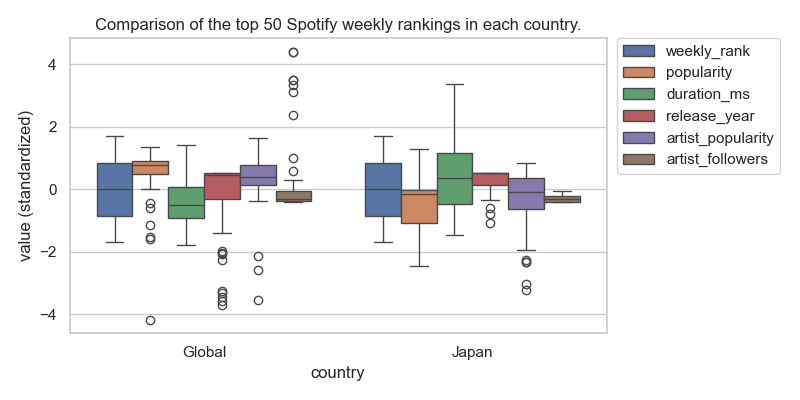
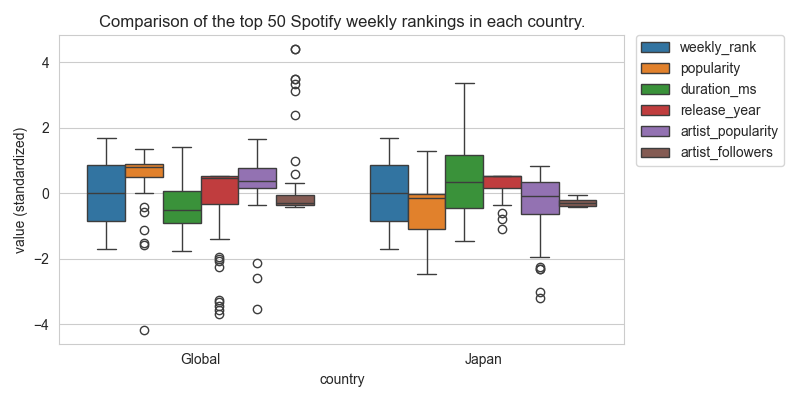
code 一通り完成、あとは code を仕上げるだけ

Changed region(s): [[0.0, 0.03, 1.0, 0.93], [0.375, 0.9, 0.4688, 0.96], [0.5625, 0.87, 0.625, 0.93]]

diff --git a/prog_spe2/report1/analysis.py b/prog_spe2/report1/analysis.py
@@ -21,7 +21,7 @@ df_japan = df[df["country"] == "Japan"].copy()
 df_global = df[df["country"] == "Global"].copy()
 df_both = pd.concat([df_japan, df_global], ignore_index=True)
 
-# Japan と Global の散布図を作成 
+# Japan と Global の散布図作成、相関係数算出
 def save_scatter_release_vs_duration_both(df_all, df_japan, df_global, save_dir):
     x_col = "release_year"
     y_col = "duration_ms"
@@ -33,35 +33,25 @@ def save_scatter_release_vs_duration_both(df_all, df_japan, df_global, save_dir)
         "Global": "deepskyblue",
     }
 
-    # 散布図（縦軸は秒に変換して描画）
+    # 相関係数
+    r_japan, _ = pearsonr(df_japan[x_col], df_japan[y_col])
+    r_global, _ = pearsonr(df_global[x_col], df_global[y_col])
+    r_both, _ = pearsonr(df_all[x_col], df_all[y_col])
+
+    # 散布図    
     for c in ["Global", "Japan"]:
-        sub_c = df_all[df_all["country"] == c].dropna(subset=[x_col, y_col])
-        if len(sub_c) < 2:
-            continue
-        x = sub_c[x_col].values
-        y_s = sub_c[y_col].values / 1000.0  # ms → s
-        plt.scatter(x, y_s, alpha=0.7, label=c, color=color_map[c])
+        sub = df_all[df_all["country"] == c]
+        x = sub[x_col].values
+        y = sub[y_col].values / 1000.0
+        plt.scatter(x, y, label=c, color=color_map[c])
 
-    # 相関係数はターミナル出力のみ
-    def safe_corr(df_sub):
-        sub = df_sub.dropna(subset=[x_col, y_col])
-        if len(sub) < 2:
-            return np.nan, np.nan
-        return pearsonr(sub[x_col], sub[y_col])
-
-    r_japan, _ = safe_corr(df_japan)
-    r_global, _ = safe_corr(df_global)
-    r_both, _ = safe_corr(df_all)
-
-    print("\n======================================")
-    print("[BOTH] duration_ms vs release_year")
-    print(f"  r(Japan)  = {r_japan:.4f}")
-    print(f"  r(Global) = {r_global:.4f}")
-    print(f"  r(Both)   = {r_both:.4f}")
-    print("======================================")
+    print("=== 曲の長さとリリース年の相関係数 ===")
+    print(f"  r(Japan)  =  {r_japan:.4f}")
+    print(f"  r(Global) =  {r_global:.4f}")
+    print(f"  r(Japan + Global)  =  {r_both:.4f}")
 
     plt.xlabel("release_year")
-    plt.ylabel("duration [s]")  # 単位を秒で表示
+    plt.ylabel("duration [s]")
     plt.title("duration [s] vs release_year (Japan & Global)")
     plt.grid(True)
     plt.legend(loc="upper left")
@@ -71,15 +61,10 @@ def save_scatter_release_vs_duration_both(df_all, df_japan, df_global, save_dir)
     plt.savefig(filepath)
     plt.close()
 
-    print(f"Saved scatter (Both): {filepath}")
+    # print(f"Saved scatter (Both): {filepath}")
 
 
-# =========================================================
-# 1-2. 散布図（Japan only）：release_year vs duration（秒）
-#      ＋ 赤色の線形近似直線
-#      相関係数はターミナルのみ
-#      式 y = ax + b を左下に表示
-# =========================================================
+# Japan の散布図(線形近似)
 def save_scatter_release_vs_duration_japan(df_japan, save_dir):
     x_col = "release_year"
     y_col = "duration_ms"
@@ -87,44 +72,31 @@ def save_scatter_release_vs_duration_japan(df_japan, save_dir):
     sub = df_japan.dropna(subset=[x_col, y_col])
     x = sub[x_col].values
     y_ms = sub[y_col].values
-    y_s = y_ms / 1000.0  # プロット用に秒に変換
+    y_s = y_ms / 1000.0
 
-    # 回帰直線は ms 単位で計算
     result_ms = linregress(x, y_ms)
-    slope_ms = result_ms.slope          # [ms / year]
-    intercept_ms = result_ms.intercept  # [ms]
+    slope_ms = result_ms.slope
+    intercept_ms = result_ms.intercept
 
-    # プロット用の直線は秒に変換して描く
     x_lin = np.linspace(x.min(), x.max(), 100)
-    y_lin_s = (slope_ms * x_lin + intercept_ms) / 1000.0  # ms → s
+    y_lin_s = (slope_ms * x_lin + intercept_ms) / 1000.0  # ms を s に変換
 
     plt.figure(figsize=(6, 4))
 
-    # 散布図（Japan, 縦軸は秒）
-    plt.scatter(x, y_s, alpha=0.7, label="Japan", color="tab:orange")
-
-    # 回帰直線（赤, 秒単位）
+    plt.scatter(x, y_s, label="Japan", color="tab:orange")
     plt.plot(x_lin, y_lin_s, color="red", linewidth=2, label="Linear fit")
 
-    # 式を左下に秒単位で表示
     slope_s = slope_ms / 1000.0
     intercept_s = intercept_ms / 1000.0
     eq_text = f"y = {slope_s:.2f} x + {intercept_s:.1f}"
     plt.text(
         0.05,
-        0.05,  # 左下
+        0.05,
         eq_text,
         transform=plt.gca().transAxes,
         fontsize=11,
-        bbox=dict(facecolor="white", alpha=0.7, edgecolor="gray"),
+        bbox=dict(facecolor="white", edgecolor="gray"),
     )
-
-    # 相関係数は ms で計算（s でも同じ値だが、元データに合わせる）
-    r, _ = pearsonr(x, y_ms)
-    print("\n[JAPAN] regression (computed in ms, shown in s)")
-    print(f"  slope [s/year] = {slope_s:.4f}")
-    print(f"  intercept [s]  = {intercept_s:.4f}")
-    print(f"  r(Japan)       = {r:.4f}")
 
     plt.xlabel("release_year")
     plt.ylabel("duration [s]")
@@ -137,37 +109,25 @@ def save_scatter_release_vs_duration_japan(df_japan, save_dir):
     plt.savefig(filepath)
     plt.close()
 
-    print(f"Saved scatter (Japan): {filepath}")
+    # print(f"Saved scatter (Japan): {filepath}")
 
 
-# =========================================================
-# 2-1. 単回帰分析（Both）：release_year → duration_ms
-#      （数値はこれまで通り ms 単位で計算・出力）
-# =========================================================
+# Japan + Global の線形回帰
 def regression_releaseyear_duration_both(df_all):
     sub = df_all.dropna(subset=["release_year", "duration_ms"])
     x = sub["release_year"].values
     y = sub["duration_ms"].values
 
     result = linregress(x, y)
-    n = len(x)
 
-    print("\n===== Linear regression: duration_ms = a * release_year + b (Both) =====")
-    print(f"a (s/year)   = {result.slope/1000:.3f}")
-    print(f"b (s)        = {result.intercept/1000:.3f}")
-    print(f"r            = {result.rvalue:.3f}")
-    print(f"p-value      = {result.pvalue:.3e}")
-    print(f"n            = {n}")
-    print("========================================================================")
-    print(
-        f"結論（Both）：リリース年が 1 年上がると、曲の長さは平均して約 {result.slope/1000:.1f} s 変化する。"
-    )
+    print('\n=== 線形回帰 (Japan + Global) ===')
+    print("duration_s = a * release_year + b としたとき、")
+    print(f"  a  =  {result.slope/1000:.3f} [s/year]")
+    print(f"  b  =  {result.intercept/1000:.3f} [s]")
+    print(f"  r  =  {result.rvalue:.3f}")
+    print(f"  p  =  {result.pvalue:.3e}")
 
-
-# =========================================================
-# 2-2. 単回帰分析（Japan only）：release_year → duration_ms
-#      （こちらも数値は ms 単位のものをログに出す）
-# =========================================================
+# Japan の線形回帰
 def regression_releaseyear_duration_japan(df_japan):
     sub = df_japan.dropna(subset=["release_year", "duration_ms"])
     x = sub["release_year"].values
@@ -176,21 +136,14 @@ def regression_releaseyear_duration_japan(df_japan):
     result = linregress(x, y)
     n = len(x)
 
-    print("\n===== Linear regression: duration_ms = a * release_year + b (Japan only) =====")
-    print(f"a (s/year)   = {result.slope/1000:.3f}")
-    print(f"b (s)        = {result.intercept/1000:.3f}")
-    print(f"r            = {result.rvalue:.3f}")
-    print(f"p-value      = {result.pvalue:.3e}")
-    print(f"n            = {n}")
-    print("==============================================================================")
-    print(
-        f"結論（Japan）：リリース年が 1 年上がると、日本における曲の長さは平均して約 {result.slope/1000:.1f} s 変化する。"
-    )
+    print('\n=== 線形回帰 (Japan) ===')
+    print("duration_s = a * release_year + b としたとき、")
+    print(f"  a  = {result.slope/1000:.3f} [s/year]")
+    print(f"  b  =  {result.intercept/1000:.3f} [s]")
+    print(f"  r  =  {result.rvalue:.3f}")
+    print(f"  p  =  {result.pvalue:.3e}")
 
-
-# =========================================================
-# 3. t検定：Japan vs Global（平均値の差の検定）
-# =========================================================
+# Japan と Global の t検定
 def run_ttests(df, df_japan, df_global):
     feature_cols = [
         "duration_ms",
@@ -200,32 +153,18 @@ def run_ttests(df, df_japan, df_global):
         "release_year",
     ]
 
-    print("\n================ T-tests Japan vs Global ================")
+    print("\n=== Japan と Global の平均値に差があるかのt検定 ===")
     for col in feature_cols:
-        if col not in df.columns:
-            print(f"{col:18s}: column not found, skip")
-            continue
-
         j = df_japan[col].dropna()
         g = df_global[col].dropna()
 
-        if len(j) > 1 and len(g) > 1:
-            t_stat, p_val = ttest_ind(j, g, equal_var=False)
-            print(
-                f"{col:18s}: "
-                f"t = {t_stat:8.3f}, p = {p_val:8.3e}, "
-                f"n_Japan = {len(j):3d}, n_Global = {len(g):3d}"
-            )
-        else:
-            print(f"{col:18s}: skip (not enough data)")
-    print("=========================================================\n")
+        t_stat, p_val = ttest_ind(j, g, equal_var=False)
+        print(f"  {col:18s}: t = {t_stat:8.3f},  p = {p_val:8.3e}")
 
 
-# =========================================================
-# 4. 箱ひげ図：Global / Japan の全数値特徴量を 1 枚に
-# =========================================================
+# 箱ひげ図
 def save_boxplot_all_features(df_both, save_dir):
-    sns.set(style="whitegrid")
+    sns.set_style(style="whitegrid")
 
     df_features = df_both.copy()
 
@@ -236,7 +175,7 @@ def save_boxplot_all_features(df_both, save_dir):
         if c not in exclude_cols and np.issubdtype(df_features[c].dtype, np.number)
     ]
 
-    print("Boxplot に使う列:", numeric_cols)
+    # print("Boxplot に使う列:", numeric_cols)
 
     df_long = df_features[["country"] + numeric_cols].melt(
         id_vars="country",
@@ -244,7 +183,7 @@ def save_boxplot_all_features(df_both, save_dir):
         value_name="value_raw",
     )
 
-    # 各特徴量ごとに標準化（平均0, 分散1）
+    # 標準化（平均0, 分散1）
     df_long["value"] = df_long.groupby("feature_name")["value_raw"].transform(
         lambda x: (x - x.mean()) / x.std(ddof=0)
     )
@@ -263,7 +202,7 @@ def save_boxplot_all_features(df_both, save_dir):
     plt.xlabel("country")
     plt.ylabel("value (standardized)")
 
-    # 凡例（タイトルは消す）
+    # 凡例
     handles, labels = ax.get_legend_handles_labels()
     plt.legend(
         handles,
@@ -279,18 +218,13 @@ def save_boxplot_all_features(df_both, save_dir):
     plt.savefig(box_path)
     plt.close()
 
-    print(f"Boxplot saved to: {box_path}")
+    # print(f"Boxplot saved to: {box_path}")
 
 
-# =========================================================
-# メイン処理
-# =========================================================
+# メイン関数
 if __name__ == "__main__":
     # 散布図（Both, duration を秒で表示）
     save_scatter_release_vs_duration_both(df_both, df_japan, df_global, SAVE_DIR)
-
-    # 散布図（Japan only, 秒＋回帰直線＋式）
-    save_scatter_release_vs_duration_japan(df_japan, SAVE_DIR)
 
     # 単回帰（Both, ms 単位でログ出力）
     regression_releaseyear_duration_both(df_both)
@@ -298,11 +232,14 @@ if __name__ == "__main__":
     # 単回帰（Japan only, ms 単位でログ出力）
     regression_releaseyear_duration_japan(df_japan)
 
+    # 散布図（Japan only, 秒＋回帰直線＋式）
+    save_scatter_release_vs_duration_japan(df_japan, SAVE_DIR)
+
     # t検定
     run_ttests(df, df_japan, df_global)
 
     # 箱ひげ図
     save_boxplot_all_features(df_both, SAVE_DIR)
 
-    print("Saved:", SAVE_DIR)
+    # print("Saved:", SAVE_DIR)
     
